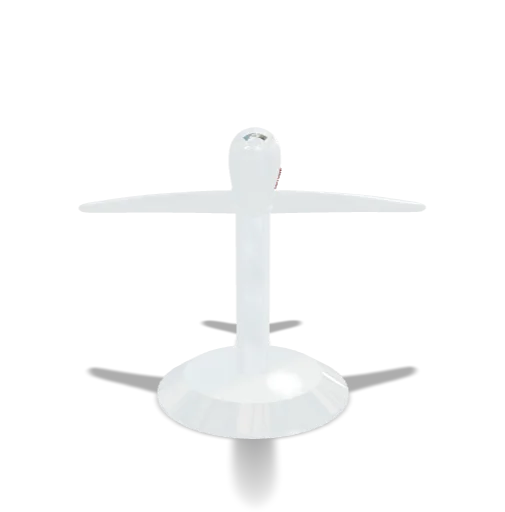
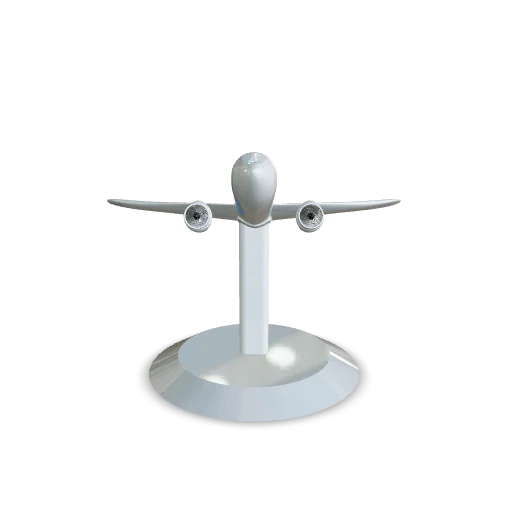
Add files via upload

Changed region(s): [[0.1485, 0.25, 0.8317, 0.9688]]

diff --git a/index.html b/index.html
@@ -11,7 +11,7 @@
   </head>
   <body>
     <!-- <model-viewer> HTML element -->
-    <model-viewer bounds="tight" src="Boeing777.glb" ar ar-modes="webxr scene-viewer quick-look" camera-controls environment-image="aircraft_workshop_01_1k.hdr" poster="poster.webp" shadow-intensity="2" exposure="1.14" shadow-softness="0.17">
+    <model-viewer bounds="tight" src="777.glb" ar ar-modes="scene-viewer webxr quick-look" camera-controls environment-image="aircraft_workshop_01_1k.hdr" poster="poster.webp" shadow-intensity="1" autoplay>
       <div class="progress-bar hide" slot="progress-bar">
           <div class="update-bar"></div>
       </div>
